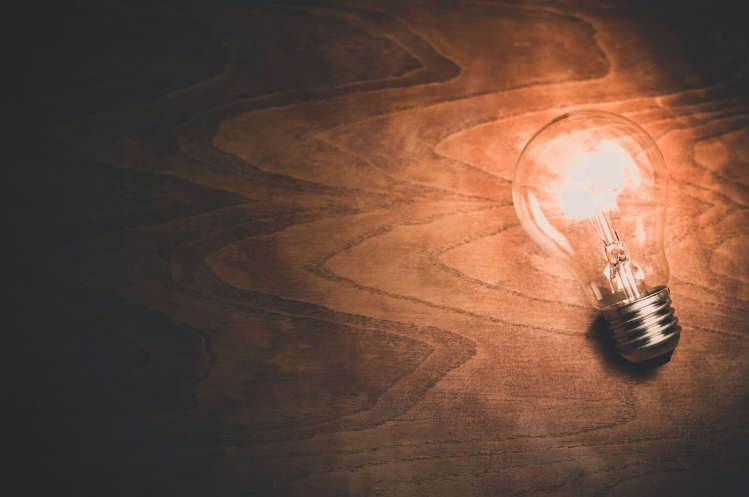
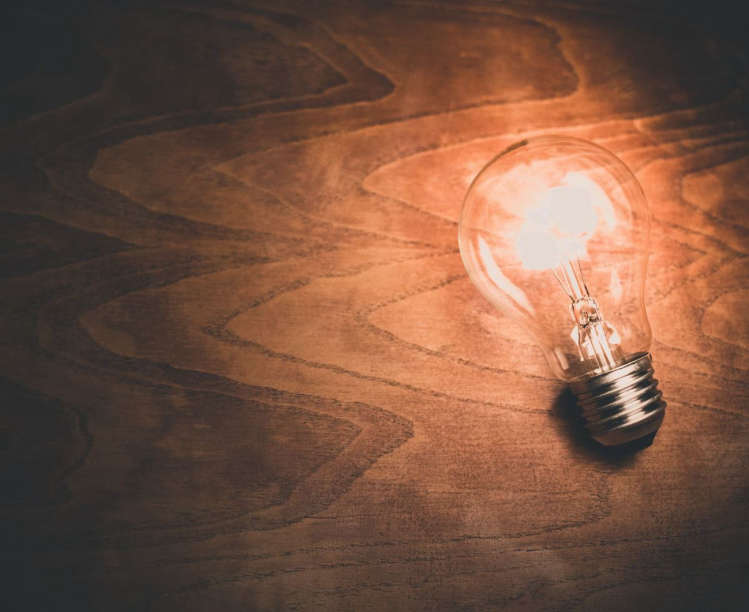
Updated from Publii

diff --git a/tips-toelatingsexamen.html b/tips-toelatingsexamen.html
@@ -19,7 +19,7 @@
                 .navbar__menu,
                 .footer {
                     font-family: 'Open Sans', sans-serif
-                }</style><link rel="stylesheet" href="https://voorbereiding-toelatingsexamen.be/assets/css/style.css?v=e01d481b07ff1b074de3c6881ef76404"><script type="application/ld+json">{"@context":"http://schema.org","@type":"Article","mainEntityOfPage":{"@type":"WebPage","@id":"https://voorbereiding-toelatingsexamen.be/tips-toelatingsexamen.html"},"headline":"Tips","datePublished":"2019-01-27T23:12","dateModified":"2019-01-28T21:17","image":{"@type":"ImageObject","url":"https://voorbereiding-toelatingsexamen.be/media/posts/11/tips-toelatingsexamen-geneeskunde-tandheelkunde.jpg","height":1061,"width":1599},"description":"<p>Ook al lijkt de zomer nog ver weg, de dag van het Toelatingsexamen Arts &amp; Tandarts zal sneller naderen dan je verwacht. </p>\n<p>Hieronder vind je enkele tips voor de dag van het examen:</p>\n","author":{"@type":"Person","name":"Anna Volhart"},"publisher":{"@type":"Organization","name":"Anna Volhart"}}</script><script src="https://voorbereiding-toelatingsexamen.be/assets/js/lazysizes.min.js?v=fcb7109aacc796048242935c33a7f9ab"></script><style></style></head><body><header class="header" id="js-header"><div><a class="logo" href="https://voorbereiding-toelatingsexamen.be">VOORBEREIDING TOELATINGSEXAMEN</a><nav class="navbar js-navbar"><button class="navbar__toggle js-toggle" aria-label="Menu" aria-controls="navigation"><span class="navbar__toggle-box"><span class="navbar__toggle-inner">Menu</span></span></button><ul id="js-navbar-menu" class="navbar__menu"><li><a href="https://voorbereiding-toelatingsexamen.be/cursus-geneeskunde-tandheelkunde.html">DE CURSUS</a></li><li class="has-submenu"><span>VAKKEN</span><ul id="js-navbar-menu" class="navbar__submenu"><li><a href="https://voorbereiding-toelatingsexamen.be/toelatingsexamen-biologie.html">Biologie</a></li><li><a href="https://voorbereiding-toelatingsexamen.be/toelatingsexamen-chemie.html">Chemie</a></li><li><a href="https://voorbereiding-toelatingsexamen.be/toelatingsexamen-fysica.html">Fysica</a></li><li><a href="https://voorbereiding-toelatingsexamen.be/toelatingsexamen-wiskunde.html">Wiskunde</a></li></ul></li><li class="has-submenu"><span>HET EXAMEN</span><ul id="js-navbar-menu" class="navbar__submenu"><li><a href="https://voorbereiding-toelatingsexamen.be/inhoud-examen-tips.html">Inhoud</a></li><li><a href="https://voorbereiding-toelatingsexamen.be/voorbereiding-toelatingsexamen-geneeskunde-tandheelkunde.html">Voorbereiding</a></li><li><a href="https://voorbereiding-toelatingsexamen.be/inschrijven-toelatingsexamen.html">Inschrijven</a></li><li><a href="https://voorbereiding-toelatingsexamen.be/resultaat-toelatingsexamen.html">Resultaat</a></li></ul></li><li class="active-parent has-submenu"><span>DE DAG ZELF</span><ul id="js-navbar-menu" class="navbar__submenu"><li><a href="https://voorbereiding-toelatingsexamen.be/locatie-toelatingsexamen.html">Locatie</a></li><li class="active"><a href="https://voorbereiding-toelatingsexamen.be/tips-toelatingsexamen.html">Tips</a></li></ul></li><li><a href="https://www.skribis.be/nl/voorbereiding-toelatingsexamen-arts-tandarts.html">BESTELLEN</a></li></ul></nav><div class="search"><div class="search__overlay" id="js-search-overlay"><div><form action="https://voorbereiding-toelatingsexamen.be/search.html" class="search__form"><input class="search__input" id="js-search-input" type="search" name="q" placeholder="search..." autofocus="autofocus"></form><button class="search__close" id="js-search-close" aria-label="Close">Close</button></div></div><button class="search__btn" id="js-search-btn" aria-label="Search"><svg class="icon" role="presentation" focusable="false"><use xlink:href="https://voorbereiding-toelatingsexamen.be/assets/svg/svg-map.svg#search"/></svg></button></div></div></header><article><div class="hero"><div class="hero__wrapper"><figure class="hero__image"><img class="hero__image-img lazyload" src="https://voorbereiding-toelatingsexamen.be/media/posts/11/responsive/tips-toelatingsexamen-geneeskunde-tandheelkunde-xs.jpg" data-srcset="https://voorbereiding-toelatingsexamen.be/media/posts/11/responsive/tips-toelatingsexamen-geneeskunde-tandheelkunde-xs.jpg 300w ,https://voorbereiding-toelatingsexamen.be/media/posts/11/responsive/tips-toelatingsexamen-geneeskunde-tandheelkunde-sm.jpg 480w ,https://voorbereiding-toelatingsexamen.be/media/posts/11/responsive/tips-toelatingsexamen-geneeskunde-tandheelkunde-md.jpg 749w ,https://voorbereiding-toelatingsexamen.be/media/posts/11/responsive/tips-toelatingsexamen-geneeskunde-tandheelkunde-xl.jpg 1200w ,https://voorbereiding-toelatingsexamen.be/media/posts/11/responsive/tips-toelatingsexamen-geneeskunde-tandheelkunde-xxl.jpg 1600w ,https://voorbereiding-toelatingsexamen.be/media/posts/11/responsive/tips-toelatingsexamen-geneeskunde-tandheelkunde-xxxl.jpg 2560w" data-sizes="auto" height="1061" width="1599" alt=""></figure><div class="hero__inner"><h1 class="hero__title">Tips</h1><div class="post__meta"></div></div></div></div><div class="main"><div class="wrapper"><div class="page post"><div class="post__inner"><div class="post__entry"><p>Ook al lijkt de zomer nog ver weg, de dag van het Toelatingsexamen Arts &amp; Tandarts zal sneller naderen dan je verwacht. </p><p>Hieronder vind je enkele tips voor de dag van het examen:</p><ul><li>Vergeet je identiteitskaart en uitnodigingsbrief niet. </li><li>Er zijn gemiddeld 5000 kandidaten voor het examen Arts, wat de nodige drukte met zich meebrengt. Houd rekening met verkeersdrukte en bouw wat reserve in.</li><li>Houd rekening met wachttijden aan het toilet tijdens de pauze.</li><li>Kijk jij vlak voor een examen graag nog wat na? Breng je samenvattingen mee om de wachttijd voor het examen te overbruggen. Uiteraard mag je hier tijdens het examen geen gebruik van maken. </li><li>Je middaglunch en drank dien je zelf te voorzien. Tijdens het examen is enkel water toegestaan. </li><li>Eigen schrijfgerief is niet toegestaan. Je krijgt een balpen, test deze best eens uit voor de tijd ingaat.</li><li>Ook een horloge is niet toegestaan. De tijd wordt geprojecteerd op een groot scherm.</li></ul></div><footer><div class="post__share"></div></footer></div></div></div></div></article><footer class="footer"><div class="wrapper"><a class="footer__logo" href="https://voorbereiding-toelatingsexamen.be">VOORBEREIDING TOELATINGSEXAMEN</a><ul class="footer__nav"><li><a href="https://voorbereiding-toelatingsexamen.be/contact.html">Contact</a></li><li><a href="https://voorbereiding-toelatingsexamen.be/disclaimer.html">Disclaimer</a></li><li><a href="https://voorbereiding-toelatingsexamen.be/auteur.html">Auteur</a></li><li><span>© 2019</span></li></ul><div class="footer__copy"></div></div><button class="footer__bttop js-footer__bttop"><svg><title>[MISSING TRANSLATION]</title><use xlink:href="https://voorbereiding-toelatingsexamen.be/assets/svg/svg-map.svg#toparrow"/></svg></button></footer><script defer="defer" src="https://voorbereiding-toelatingsexamen.be/assets/js/scripts.min.js?v=e742b9a5e76b4ccaa6e2fc18a256f793"></script><script defer="defer">var lazyFeaturedImage = function lazyFeaturedImage() {
+                }</style><link rel="stylesheet" href="https://voorbereiding-toelatingsexamen.be/assets/css/style.css?v=e01d481b07ff1b074de3c6881ef76404"><script type="application/ld+json">{"@context":"http://schema.org","@type":"Article","mainEntityOfPage":{"@type":"WebPage","@id":"https://voorbereiding-toelatingsexamen.be/tips-toelatingsexamen.html"},"headline":"Tips","datePublished":"2019-01-27T23:12","dateModified":"2019-01-28T23:12","image":{"@type":"ImageObject","url":"https://voorbereiding-toelatingsexamen.be/media/posts/11/tips-toelatingsexamen-geneeskunde-tandheelkunde.jpg","height":1061,"width":1298},"description":"<p>Ook al lijkt de zomer nog ver weg, de dag van het Toelatingsexamen Arts &amp; Tandarts zal sneller naderen dan je verwacht. </p>\n<p>Hieronder vind je enkele tips voor de dag van het examen:</p>\n","author":{"@type":"Person","name":"Anna Volhart"},"publisher":{"@type":"Organization","name":"Anna Volhart"}}</script><script src="https://voorbereiding-toelatingsexamen.be/assets/js/lazysizes.min.js?v=fcb7109aacc796048242935c33a7f9ab"></script><style></style></head><body><header class="header" id="js-header"><div><a class="logo" href="https://voorbereiding-toelatingsexamen.be">VOORBEREIDING TOELATINGSEXAMEN</a><nav class="navbar js-navbar"><button class="navbar__toggle js-toggle" aria-label="Menu" aria-controls="navigation"><span class="navbar__toggle-box"><span class="navbar__toggle-inner">Menu</span></span></button><ul id="js-navbar-menu" class="navbar__menu"><li><a href="https://voorbereiding-toelatingsexamen.be/cursus-geneeskunde-tandheelkunde.html">DE CURSUS</a></li><li class="has-submenu"><span>VAKKEN</span><ul id="js-navbar-menu" class="navbar__submenu"><li><a href="https://voorbereiding-toelatingsexamen.be/toelatingsexamen-biologie.html">Biologie</a></li><li><a href="https://voorbereiding-toelatingsexamen.be/toelatingsexamen-chemie.html">Chemie</a></li><li><a href="https://voorbereiding-toelatingsexamen.be/toelatingsexamen-fysica.html">Fysica</a></li><li><a href="https://voorbereiding-toelatingsexamen.be/toelatingsexamen-wiskunde.html">Wiskunde</a></li></ul></li><li class="has-submenu"><span>HET EXAMEN</span><ul id="js-navbar-menu" class="navbar__submenu"><li><a href="https://voorbereiding-toelatingsexamen.be/inhoud-examen-tips.html">Inhoud</a></li><li><a href="https://voorbereiding-toelatingsexamen.be/voorbereiding-toelatingsexamen-geneeskunde-tandheelkunde.html">Voorbereiding</a></li><li><a href="https://voorbereiding-toelatingsexamen.be/inschrijven-toelatingsexamen.html">Inschrijven</a></li><li><a href="https://voorbereiding-toelatingsexamen.be/resultaat-toelatingsexamen.html">Resultaat</a></li></ul></li><li class="active-parent has-submenu"><span>DE DAG ZELF</span><ul id="js-navbar-menu" class="navbar__submenu"><li><a href="https://voorbereiding-toelatingsexamen.be/locatie-toelatingsexamen.html">Locatie</a></li><li class="active"><a href="https://voorbereiding-toelatingsexamen.be/tips-toelatingsexamen.html">Tips</a></li></ul></li><li><a href="https://www.skribis.be/nl/voorbereiding-toelatingsexamen-arts-tandarts.html">BESTELLEN</a></li></ul></nav><div class="search"><div class="search__overlay" id="js-search-overlay"><div><form action="https://voorbereiding-toelatingsexamen.be/search.html" class="search__form"><input class="search__input" id="js-search-input" type="search" name="q" placeholder="search..." autofocus="autofocus"></form><button class="search__close" id="js-search-close" aria-label="Close">Close</button></div></div><button class="search__btn" id="js-search-btn" aria-label="Search"><svg class="icon" role="presentation" focusable="false"><use xlink:href="https://voorbereiding-toelatingsexamen.be/assets/svg/svg-map.svg#search"/></svg></button></div></div></header><article><div class="hero"><div class="hero__wrapper"><figure class="hero__image"><img class="hero__image-img lazyload" src="https://voorbereiding-toelatingsexamen.be/media/posts/11/responsive/tips-toelatingsexamen-geneeskunde-tandheelkunde-xs.jpg" data-srcset="https://voorbereiding-toelatingsexamen.be/media/posts/11/responsive/tips-toelatingsexamen-geneeskunde-tandheelkunde-xs.jpg 300w ,https://voorbereiding-toelatingsexamen.be/media/posts/11/responsive/tips-toelatingsexamen-geneeskunde-tandheelkunde-sm.jpg 480w ,https://voorbereiding-toelatingsexamen.be/media/posts/11/responsive/tips-toelatingsexamen-geneeskunde-tandheelkunde-md.jpg 749w ,https://voorbereiding-toelatingsexamen.be/media/posts/11/responsive/tips-toelatingsexamen-geneeskunde-tandheelkunde-xl.jpg 1200w ,https://voorbereiding-toelatingsexamen.be/media/posts/11/responsive/tips-toelatingsexamen-geneeskunde-tandheelkunde-xxl.jpg 1600w ,https://voorbereiding-toelatingsexamen.be/media/posts/11/responsive/tips-toelatingsexamen-geneeskunde-tandheelkunde-xxxl.jpg 2560w" data-sizes="auto" height="1061" width="1298" alt=""></figure><div class="hero__inner"><h1 class="hero__title">Tips</h1><div class="post__meta"></div></div></div></div><div class="main"><div class="wrapper"><div class="page post"><div class="post__inner"><div class="post__entry"><p>Ook al lijkt de zomer nog ver weg, de dag van het Toelatingsexamen Arts &amp; Tandarts zal sneller naderen dan je verwacht. </p><p>Hieronder vind je enkele tips voor de dag van het examen:</p><ul><li>Vergeet je identiteitskaart en uitnodigingsbrief niet. </li><li>Er zijn gemiddeld 5000 kandidaten voor het examen Arts, wat de nodige drukte met zich meebrengt. Houd rekening met verkeersdrukte en bouw wat reserve in.</li><li>Houd rekening met wachttijden aan het toilet tijdens de pauze.</li><li>Kijk jij vlak voor een examen graag nog wat na? Breng je samenvattingen mee om de wachttijd voor het examen te overbruggen. Uiteraard mag je hier tijdens het examen geen gebruik van maken. </li><li>Je middaglunch en drank dien je zelf te voorzien. Tijdens het examen is enkel water toegestaan. </li><li>Eigen schrijfgerief is niet toegestaan. Je krijgt een balpen, test deze best eens uit voor de tijd ingaat.</li><li>Ook een horloge is niet toegestaan. De tijd wordt geprojecteerd op een groot scherm.</li></ul></div><footer><div class="post__share"></div></footer></div></div></div></div></article><footer class="footer"><div class="wrapper"><a class="footer__logo" href="https://voorbereiding-toelatingsexamen.be">VOORBEREIDING TOELATINGSEXAMEN</a><ul class="footer__nav"><li><a href="https://voorbereiding-toelatingsexamen.be/contact.html">Contact</a></li><li><a href="https://voorbereiding-toelatingsexamen.be/disclaimer.html">Disclaimer</a></li><li><a href="https://voorbereiding-toelatingsexamen.be/auteur.html">Auteur</a></li><li><span>© 2019</span></li></ul><div class="footer__copy"></div></div><button class="footer__bttop js-footer__bttop"><svg><title>[MISSING TRANSLATION]</title><use xlink:href="https://voorbereiding-toelatingsexamen.be/assets/svg/svg-map.svg#toparrow"/></svg></button></footer><script defer="defer" src="https://voorbereiding-toelatingsexamen.be/assets/js/scripts.min.js?v=e742b9a5e76b4ccaa6e2fc18a256f793"></script><script defer="defer">var lazyFeaturedImage = function lazyFeaturedImage() {
          var lazyFeaturedImageImages = document.querySelectorAll('.hero__image-img');
 
          for (var i = 0; i < lazyFeaturedImageImages.length; i++) {

diff --git a/amp/tips-toelatingsexamen.html b/amp/tips-toelatingsexamen.html
@@ -1,4 +1,4 @@
-<!doctype html><html amp lang="en"><head><meta charset="utf-8"><title>Tips - VOORBEREIDING TOELATINGSEXAMEN</title><meta name="robots" content="noindex, follow"><meta name="viewport" content="width=device-width,minimum-scale=1,initial-scale=1"><link href="https://fonts.googleapis.com/css?family=Roboto:400,700" rel="stylesheet" type="text/css"><script async custom-element="amp-sidebar" src="https://cdn.ampproject.org/v0/amp-sidebar-0.1.js"></script><script async custom-element="amp-social-share" src="https://cdn.ampproject.org/v0/amp-social-share-0.1.js"></script><script async custom-element="amp-iframe" src="https://cdn.ampproject.org/v0/amp-iframe-0.1.js"></script><script type="application/ld+json">{"@context":"http://schema.org","@type":"Article","mainEntityOfPage":{"@type":"WebPage","@id":"https://voorbereiding-toelatingsexamen.be/amp/tips-toelatingsexamen.html"},"headline":"Tips","datePublished":"2019-01-27T23:12","dateModified":"2019-01-28T21:17","image":{"@type":"ImageObject","url":"https://voorbereiding-toelatingsexamen.be/media/posts/11/tips-toelatingsexamen-geneeskunde-tandheelkunde.jpg","height":1061,"width":1599},"description":"<p>Ook al lijkt de zomer nog ver weg, de dag van het Toelatingsexamen Arts &amp; Tandarts zal sneller naderen dan je verwacht. </p>\n<p>Hieronder vind je enkele tips voor de dag van het examen:</p>\n","author":{"@type":"Person","name":"Anna Volhart"},"publisher":{"@type":"Organization","name":"Anna Volhart"}}</script><style amp-custom>article,
+<!doctype html><html amp lang="en"><head><meta charset="utf-8"><title>Tips - VOORBEREIDING TOELATINGSEXAMEN</title><meta name="robots" content="noindex, follow"><meta name="viewport" content="width=device-width,minimum-scale=1,initial-scale=1"><link href="https://fonts.googleapis.com/css?family=Roboto:400,700" rel="stylesheet" type="text/css"><script async custom-element="amp-sidebar" src="https://cdn.ampproject.org/v0/amp-sidebar-0.1.js"></script><script async custom-element="amp-social-share" src="https://cdn.ampproject.org/v0/amp-social-share-0.1.js"></script><script async custom-element="amp-iframe" src="https://cdn.ampproject.org/v0/amp-iframe-0.1.js"></script><script type="application/ld+json">{"@context":"http://schema.org","@type":"Article","mainEntityOfPage":{"@type":"WebPage","@id":"https://voorbereiding-toelatingsexamen.be/amp/tips-toelatingsexamen.html"},"headline":"Tips","datePublished":"2019-01-27T23:12","dateModified":"2019-01-28T23:12","image":{"@type":"ImageObject","url":"https://voorbereiding-toelatingsexamen.be/media/posts/11/tips-toelatingsexamen-geneeskunde-tandheelkunde.jpg","height":1061,"width":1298},"description":"<p>Ook al lijkt de zomer nog ver weg, de dag van het Toelatingsexamen Arts &amp; Tandarts zal sneller naderen dan je verwacht. </p>\n<p>Hieronder vind je enkele tips voor de dag van het examen:</p>\n","author":{"@type":"Person","name":"Anna Volhart"},"publisher":{"@type":"Organization","name":"Anna Volhart"}}</script><style amp-custom>article,
 aside,
 footer,
 header,
@@ -553,7 +553,7 @@ aside {
   background: #039be5;
   color: #ffffff;
   padding: 1.06667rem 4%;
-  text-align: center; }</style><style amp-boilerplate>body{-webkit-animation:-amp-start 8s steps(1,end) 0s 1 normal both;-moz-animation:-amp-start 8s steps(1,end) 0s 1 normal both;-ms-animation:-amp-start 8s steps(1,end) 0s 1 normal both;animation:-amp-start 8s steps(1,end) 0s 1 normal both}@-webkit-keyframes -amp-start{from{visibility:hidden}to{visibility:visible}}@-moz-keyframes -amp-start{from{visibility:hidden}to{visibility:visible}}@-ms-keyframes -amp-start{from{visibility:hidden}to{visibility:visible}}@-o-keyframes -amp-start{from{visibility:hidden}to{visibility:visible}}@keyframes -amp-start{from{visibility:hidden}to{visibility:visible}}</style><noscript><style amp-boilerplate>body{-webkit-animation:none;-moz-animation:none;-ms-animation:none;animation:none}</style></noscript><script async src="https://cdn.ampproject.org/v0.js"></script><script custom-element="amp-animation" src="https://cdn.ampproject.org/v0/amp-animation-0.1.js" async></script><script custom-element="amp-position-observer" src="https://cdn.ampproject.org/v0/amp-position-observer-0.1.js" async></script></head><body class="bg-white"><nav class="navbar wrap-inner" id="top"><div><a on="tap:navbar-sidebar.toggle" class="navbar-sidebar-toggle" title="Menu">Menu</a> <a class="logo logo-text" href="https://voorbereiding-toelatingsexamen.be/amp">VOORBEREIDING TOELATINGSEXAMEN</a></div></nav><main class="wrap-page"><article class="post"><figure class="post-featured-image"><amp-img src="https://voorbereiding-toelatingsexamen.be/media/posts/11/tips-toelatingsexamen-geneeskunde-tandheelkunde.jpg" alt="" srcset="https://voorbereiding-toelatingsexamen.be/media/posts/11/responsive/tips-toelatingsexamen-geneeskunde-tandheelkunde-xs.jpg 300w ,https://voorbereiding-toelatingsexamen.be/media/posts/11/responsive/tips-toelatingsexamen-geneeskunde-tandheelkunde-sm.jpg 480w ,https://voorbereiding-toelatingsexamen.be/media/posts/11/responsive/tips-toelatingsexamen-geneeskunde-tandheelkunde-md.jpg 749w" sizes="(max-width: 768px) 100vw, 768px" height="1061" layout="responsive" width="1599"></amp-img></figure><div class="wrap-inner"><header class="post-header"><h1>Tips</h1></header><p>Ook al lijkt de zomer nog ver weg, de dag van het Toelatingsexamen Arts &amp; Tandarts zal sneller naderen dan je verwacht. </p><p>Hieronder vind je enkele tips voor de dag van het examen:</p><ul><li>Vergeet je identiteitskaart en uitnodigingsbrief niet. </li><li>Er zijn gemiddeld 5000 kandidaten voor het examen Arts, wat de nodige drukte met zich meebrengt. Houd rekening met verkeersdrukte en bouw wat reserve in.</li><li>Houd rekening met wachttijden aan het toilet tijdens de pauze.</li><li>Kijk jij vlak voor een examen graag nog wat na? Breng je samenvattingen mee om de wachttijd voor het examen te overbruggen. Uiteraard mag je hier tijdens het examen geen gebruik van maken. </li><li>Je middaglunch en drank dien je zelf te voorzien. Tijdens het examen is enkel water toegestaan. </li><li>Eigen schrijfgerief is niet toegestaan. Je krijgt een balpen, test deze best eens uit voor de tijd ingaat.</li><li>Ook een horloge is niet toegestaan. De tijd wordt geprojecteerd op een groot scherm.</li></ul><aside></aside></div></article></main><amp-animation id="showAnim" layout="nodisplay"><script type="application/json">{
+  text-align: center; }</style><style amp-boilerplate>body{-webkit-animation:-amp-start 8s steps(1,end) 0s 1 normal both;-moz-animation:-amp-start 8s steps(1,end) 0s 1 normal both;-ms-animation:-amp-start 8s steps(1,end) 0s 1 normal both;animation:-amp-start 8s steps(1,end) 0s 1 normal both}@-webkit-keyframes -amp-start{from{visibility:hidden}to{visibility:visible}}@-moz-keyframes -amp-start{from{visibility:hidden}to{visibility:visible}}@-ms-keyframes -amp-start{from{visibility:hidden}to{visibility:visible}}@-o-keyframes -amp-start{from{visibility:hidden}to{visibility:visible}}@keyframes -amp-start{from{visibility:hidden}to{visibility:visible}}</style><noscript><style amp-boilerplate>body{-webkit-animation:none;-moz-animation:none;-ms-animation:none;animation:none}</style></noscript><script async src="https://cdn.ampproject.org/v0.js"></script><script custom-element="amp-animation" src="https://cdn.ampproject.org/v0/amp-animation-0.1.js" async></script><script custom-element="amp-position-observer" src="https://cdn.ampproject.org/v0/amp-position-observer-0.1.js" async></script></head><body class="bg-white"><nav class="navbar wrap-inner" id="top"><div><a on="tap:navbar-sidebar.toggle" class="navbar-sidebar-toggle" title="Menu">Menu</a> <a class="logo logo-text" href="https://voorbereiding-toelatingsexamen.be/amp">VOORBEREIDING TOELATINGSEXAMEN</a></div></nav><main class="wrap-page"><article class="post"><figure class="post-featured-image"><amp-img src="https://voorbereiding-toelatingsexamen.be/media/posts/11/tips-toelatingsexamen-geneeskunde-tandheelkunde.jpg" alt="" srcset="https://voorbereiding-toelatingsexamen.be/media/posts/11/responsive/tips-toelatingsexamen-geneeskunde-tandheelkunde-xs.jpg 300w ,https://voorbereiding-toelatingsexamen.be/media/posts/11/responsive/tips-toelatingsexamen-geneeskunde-tandheelkunde-sm.jpg 480w ,https://voorbereiding-toelatingsexamen.be/media/posts/11/responsive/tips-toelatingsexamen-geneeskunde-tandheelkunde-md.jpg 749w" sizes="(max-width: 768px) 100vw, 768px" height="1061" layout="responsive" width="1298"></amp-img></figure><div class="wrap-inner"><header class="post-header"><h1>Tips</h1></header><p>Ook al lijkt de zomer nog ver weg, de dag van het Toelatingsexamen Arts &amp; Tandarts zal sneller naderen dan je verwacht. </p><p>Hieronder vind je enkele tips voor de dag van het examen:</p><ul><li>Vergeet je identiteitskaart en uitnodigingsbrief niet. </li><li>Er zijn gemiddeld 5000 kandidaten voor het examen Arts, wat de nodige drukte met zich meebrengt. Houd rekening met verkeersdrukte en bouw wat reserve in.</li><li>Houd rekening met wachttijden aan het toilet tijdens de pauze.</li><li>Kijk jij vlak voor een examen graag nog wat na? Breng je samenvattingen mee om de wachttijd voor het examen te overbruggen. Uiteraard mag je hier tijdens het examen geen gebruik van maken. </li><li>Je middaglunch en drank dien je zelf te voorzien. Tijdens het examen is enkel water toegestaan. </li><li>Eigen schrijfgerief is niet toegestaan. Je krijgt een balpen, test deze best eens uit voor de tijd ingaat.</li><li>Ook een horloge is niet toegestaan. De tijd wordt geprojecteerd op een groot scherm.</li></ul><aside></aside></div></article></main><amp-animation id="showAnim" layout="nodisplay"><script type="application/json">{
                     "duration": "200ms",
                     "fill": "both",
                     "iterations": "1",
